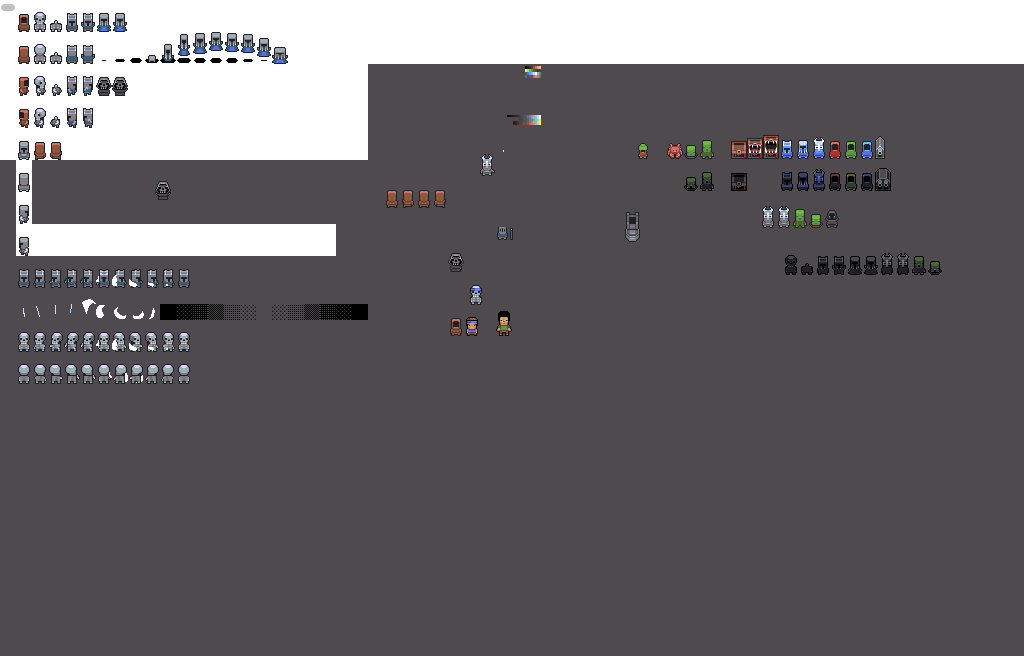
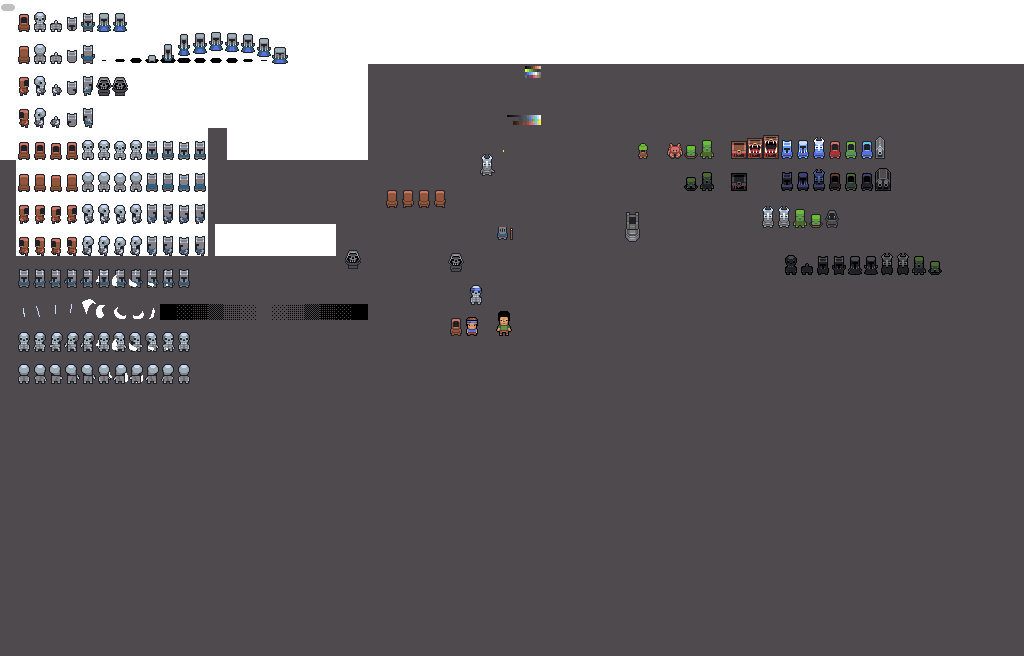
shell helmets

Changed region(s): [[0.0, 0.1829, 0.2188, 0.3963], [0.0625, 0.0305, 0.0938, 0.1829], [0.3438, 0.3659, 0.375, 0.3963]]

diff --git a/dist/bundle.js b/dist/bundle.js
@@ -390,7 +390,7 @@ var levelConstants_1 = __webpack_require__(5);
 var GameConstants = /** @class */ (function () {
     function GameConstants() {
     }
-    GameConstants.VERSION = "v0.3.1";
+    GameConstants.VERSION = "v0.3.2";
     GameConstants.FPS = 60;
     GameConstants.TILESIZE = 16;
     GameConstants.SCALE = 2;
@@ -2266,36 +2266,39 @@ var SkullEnemy = /** @class */ (function (_super) {
         };
         _this.draw = function () {
             if (!_this.dead) {
-                _this.tileX = 2;
+                _this.tileX = 5;
+                _this.tileY = 8;
                 if (_this.health === 1) {
                     _this.tileX = 3;
+                    _this.tileY = 0;
                     if (_this.ticksSinceFirstHit >= 3) {
                         _this.flashingFrame += 0.1;
                         if (Math.floor(_this.flashingFrame) % 2 === 0) {
                             _this.tileX = 2;
                         }
-                        else {
-                            _this.tileX = 3;
-                        }
                     }
                 }
+                _this.frame += 0.1;
+                if (_this.frame >= 4)
+                    _this.frame = 0;
                 _this.drawX += -0.5 * _this.drawX;
                 _this.drawY += -0.5 * _this.drawY;
                 if (_this.health === 2 && _this.doneMoving() && _this.game.player.doneMoving())
                     _this.facePlayer();
                 if (_this.hasShadow)
                     game_1.Game.drawMob(0, 0, 1, 1, _this.x - _this.drawX, _this.y - _this.drawY, 1, 1, _this.isShaded());
-                game_1.Game.drawMob(_this.tileX, _this.tileY + _this.direction * 2, 1, 2, _this.x - _this.drawX, _this.y - 1.5 - _this.drawY, 1, 2, _this.isShaded());
+                game_1.Game.drawMob(_this.tileX + (_this.tileX === 5 ? Math.floor(_this.frame) : 0), _this.tileY + _this.direction * 2, 1, 2, _this.x - _this.drawX, _this.y - 1.5 - _this.drawY, 1, 2, _this.isShaded());
             }
         };
         _this.dropLoot = function () {
             _this.game.level.items.push(new coin_1.Coin(_this.level, _this.x, _this.y));
         };
         _this.ticks = 0;
+        _this.frame = 0;
         _this.health = 2;
         _this.maxHealth = 2;
-        _this.tileX = 2;
-        _this.tileY = 0;
+        _this.tileX = 5;
+        _this.tileY = 8;
         _this.seenPlayer = true;
         _this.ticksSinceFirstHit = 0;
         _this.flashingFrame = 0;
@@ -2626,9 +2629,12 @@ var Player = /** @class */ (function () {
             }
         };
         this.drawPlayerSprite = function () {
-            game_1.Game.drawMob(1, _this.direction * 2, 1, 2, _this.x - _this.drawX, _this.y - 1.5 - _this.drawY, 1, 2);
+            _this.frame += 0.1;
+            if (_this.frame >= 4)
+                _this.frame = 0;
+            game_1.Game.drawMob(1 + Math.floor(_this.frame), 8 + _this.direction * 2, 1, 2, _this.x - _this.drawX, _this.y - 1.5 - _this.drawY, 1, 2);
             if (_this.inventory.getArmor() && _this.inventory.getArmor().health > 0) {
-                game_1.Game.drawMob(1, 8 + _this.direction * 2, 1, 2, _this.x - _this.drawX, _this.y - 1.5 - _this.drawY, 1, 2);
+                // TODO draw armor
             }
         };
         this.draw = function () {
@@ -2690,6 +2696,7 @@ var Player = /** @class */ (function () {
         this.y = y;
         this.w = 1;
         this.h = 1;
+        this.frame = 0;
         this.direction = PlayerDirection.UP;
         input_1.Input.iListener = this.iListener;
         input_1.Input.iUpListener = this.iUpListener;
@@ -3645,9 +3652,11 @@ var ShopScreen = /** @class */ (function () {
         s.item = new coal_1.Coal(this.game.level, 0, 0);
         s.description = s.item.getDescription();
         s.price = 1;
+        this.shopData.sellItems.push(s);
         s.item = new gold_1.Gold(this.game.level, 0, 0);
         s.description = s.item.getDescription();
         s.price = 10;
+        this.shopData.sellItems.push(s);
         s.item = new gem_1.Gem(this.game.level, 0, 0);
         s.description = s.item.getDescription();
         s.price = 100;
@@ -5138,10 +5147,12 @@ var KnightEnemy = /** @class */ (function (_super) {
                     return;
                 }
                 _this.ticks++;
-                _this.tileX = 5;
+                _this.tileX = 9;
+                _this.tileY = 8;
                 if (_this.seenPlayer || _this.level.softVisibilityArray[_this.x][_this.y] > 0) {
                     if (_this.ticks % 2 === 0) {
                         _this.tileX = 4;
+                        _this.tileY = 0;
                         // visible to player, chase them
                         // now that we've seen the player, we can keep chasing them even if we lose line of sight
                         _this.seenPlayer = true;
@@ -5200,11 +5211,14 @@ var KnightEnemy = /** @class */ (function (_super) {
             if (!_this.dead) {
                 _this.drawX += -0.5 * _this.drawX;
                 _this.drawY += -0.5 * _this.drawY;
+                _this.frame += 0.1;
+                if (_this.frame >= 4)
+                    _this.frame = 0;
                 if (_this.doneMoving() && _this.game.player.doneMoving())
                     _this.facePlayer();
                 if (_this.hasShadow)
                     game_1.Game.drawMob(0, 0, 1, 1, _this.x - _this.drawX, _this.y - _this.drawY, 1, 1, _this.isShaded());
-                game_1.Game.drawMob(_this.tileX, _this.tileY + _this.direction * 2, 1, 2, _this.x - _this.drawX, _this.y - 1.5 - _this.drawY, 1, 2, _this.isShaded());
+                game_1.Game.drawMob(_this.tileX + (_this.tileX === 4 ? 0 : Math.floor(_this.frame)), _this.tileY + _this.direction * 2, 1, 2, _this.x - _this.drawX, _this.y - 1.5 - _this.drawY + (_this.tileX === 4 ? 0.1875 : 0), 1, 2, _this.isShaded());
             }
         };
         _this.dropLoot = function () {
@@ -5212,10 +5226,11 @@ var KnightEnemy = /** @class */ (function (_super) {
         };
         _this.moves = new Array(); // empty move list
         _this.ticks = 0;
+        _this.frame = 0;
         _this.health = 2;
         _this.maxHealth = 2;
-        _this.tileX = 4;
-        _this.tileY = 0;
+        _this.tileX = 9;
+        _this.tileY = 8;
         _this.seenPlayer = true;
         _this.deathParticleColor = "#ffffff";
         return _this;
@@ -6682,7 +6697,7 @@ var EnemySpawnAnimation = /** @class */ (function (_super) {
             _this.enemy.skipNextTurns = 1;
             _this.level.enemies.push(_this.enemy);
             if (_this.level.game.player.x === _this.x && _this.level.game.player.y === _this.y) {
-                _this.level.game.player.hurt(1);
+                _this.level.game.player.hurt(0.5);
                 _this.level.game.player.move(_this.knockbackX, _this.knockbackY);
             }
             genericParticle_1.GenericParticle.spawnCluster(_this.level, _this.x + 0.5, _this.y + 0.5, "#ffffff");

diff --git a/src/enemy/knightEnemy.ts b/src/enemy/knightEnemy.ts
@@ -16,16 +16,18 @@ import { Coin } from "../item/coin";
 export class KnightEnemy extends Enemy {
   moves: Array<astar.AStarData>;
   ticks: number;
+  frame: number;
   seenPlayer: boolean;
 
   constructor(level: Level, game: Game, x: number, y: number) {
     super(level, game, x, y);
     this.moves = new Array<astar.AStarData>(); // empty move list
     this.ticks = 0;
+    this.frame = 0;
     this.health = 2;
     this.maxHealth = 2;
-    this.tileX = 4;
-    this.tileY = 0;
+    this.tileX = 9;
+    this.tileY = 8;
     this.seenPlayer = true;
     this.deathParticleColor = "#ffffff";
   }
@@ -41,10 +43,12 @@ export class KnightEnemy extends Enemy {
         return;
       }
       this.ticks++;
-      this.tileX = 5;
+      this.tileX = 9;
+      this.tileY = 8;
       if (this.seenPlayer || this.level.softVisibilityArray[this.x][this.y] > 0) {
         if (this.ticks % 2 === 0) {
           this.tileX = 4;
+          this.tileY = 0;
           // visible to player, chase them
 
           // now that we've seen the player, we can keep chasing them even if we lose line of sight
@@ -107,16 +111,19 @@ export class KnightEnemy extends Enemy {
     if (!this.dead) {
       this.drawX += -0.5 * this.drawX;
       this.drawY += -0.5 * this.drawY;
+
+      this.frame += 0.1;
+      if (this.frame >= 4) this.frame = 0;
       if (this.doneMoving() && this.game.player.doneMoving()) this.facePlayer();
       if (this.hasShadow)
         Game.drawMob(0, 0, 1, 1, this.x - this.drawX, this.y - this.drawY, 1, 1, this.isShaded());
       Game.drawMob(
-        this.tileX,
+        this.tileX + (this.tileX === 4 ? 0 : Math.floor(this.frame)),
         this.tileY + this.direction * 2,
         1,
         2,
         this.x - this.drawX,
-        this.y - 1.5 - this.drawY,
+        this.y - 1.5 - this.drawY + (this.tileX === 4 ? 0.1875 : 0),
         1,
         2,
         this.isShaded()

diff --git a/src/enemy/skullEnemy.ts b/src/enemy/skullEnemy.ts
@@ -16,6 +16,7 @@ import { GenericParticle } from "../particle/genericParticle";
 import { Coin } from "../item/coin";
 
 export class SkullEnemy extends Enemy {
+  frame: number;
   ticks: number;
   seenPlayer: boolean;
   ticksSinceFirstHit: number;
@@ -27,10 +28,11 @@ export class SkullEnemy extends Enemy {
   constructor(level: Level, game: Game, x: number, y: number) {
     super(level, game, x, y);
     this.ticks = 0;
+    this.frame = 0;
     this.health = 2;
     this.maxHealth = 2;
-    this.tileX = 2;
-    this.tileY = 0;
+    this.tileX = 5;
+    this.tileY = 8;
     this.seenPlayer = true;
     this.ticksSinceFirstHit = 0;
     this.flashingFrame = 0;
@@ -124,18 +126,21 @@ export class SkullEnemy extends Enemy {
 
   draw = () => {
     if (!this.dead) {
-      this.tileX = 2;
+      this.tileX = 5;
+      this.tileY = 8;
       if (this.health === 1) {
         this.tileX = 3;
+        this.tileY = 0;
         if (this.ticksSinceFirstHit >= 3) {
           this.flashingFrame += 0.1;
           if (Math.floor(this.flashingFrame) % 2 === 0) {
             this.tileX = 2;
-          } else {
-            this.tileX = 3;
           }
         }
       }
+
+      this.frame += 0.1;
+      if (this.frame >= 4) this.frame = 0;
 
       this.drawX += -0.5 * this.drawX;
       this.drawY += -0.5 * this.drawY;
@@ -144,7 +149,7 @@ export class SkullEnemy extends Enemy {
       if (this.hasShadow)
         Game.drawMob(0, 0, 1, 1, this.x - this.drawX, this.y - this.drawY, 1, 1, this.isShaded());
       Game.drawMob(
-        this.tileX,
+        this.tileX + (this.tileX === 5 ? Math.floor(this.frame) : 0),
         this.tileY + this.direction * 2,
         1,
         2,

diff --git a/src/player.ts b/src/player.ts
@@ -36,6 +36,7 @@ export class Player {
   h: number;
   drawX: number;
   drawY: number;
+  frame: number;
   direction: PlayerDirection;
   game: Game;
   flashing: boolean;
@@ -60,6 +61,8 @@ export class Player {
     this.y = y;
     this.w = 1;
     this.h = 1;
+
+    this.frame = 0;
 
     this.direction = PlayerDirection.UP;
 
@@ -383,18 +386,20 @@ export class Player {
   };
 
   drawPlayerSprite = () => {
-    Game.drawMob(1, this.direction * 2, 1, 2, this.x - this.drawX, this.y - 1.5 - this.drawY, 1, 2);
+    this.frame += 0.1;
+    if (this.frame >= 4) this.frame = 0;
+    Game.drawMob(
+      1 + Math.floor(this.frame),
+      8 + this.direction * 2,
+      1,
+      2,
+      this.x - this.drawX,
+      this.y - 1.5 - this.drawY,
+      1,
+      2
+    );
     if (this.inventory.getArmor() && this.inventory.getArmor().health > 0) {
-      Game.drawMob(
-        1,
-        8 + this.direction * 2,
-        1,
-        2,
-        this.x - this.drawX,
-        this.y - 1.5 - this.drawY,
-        1,
-        2
-      );
+      // TODO draw armor
     }
   };
 

diff --git a/src/projectile/enemySpawnAnimation.ts b/src/projectile/enemySpawnAnimation.ts
@@ -51,7 +51,7 @@ export class EnemySpawnAnimation extends Projectile {
     this.enemy.skipNextTurns = 1;
     this.level.enemies.push(this.enemy);
     if (this.level.game.player.x === this.x && this.level.game.player.y === this.y) {
-      this.level.game.player.hurt(1);
+      this.level.game.player.hurt(0.5);
       this.level.game.player.move(this.knockbackX, this.knockbackY);
     }
     GenericParticle.spawnCluster(this.level, this.x + 0.5, this.y + 0.5, "#ffffff");

diff --git a/src/shopScreen.ts b/src/shopScreen.ts
@@ -65,9 +65,11 @@ export class ShopScreen {
     s.item = new Coal(this.game.level, 0, 0);
     s.description = s.item.getDescription();
     s.price = 1;
+    this.shopData.sellItems.push(s);
     s.item = new Gold(this.game.level, 0, 0);
     s.description = s.item.getDescription();
     s.price = 10;
+    this.shopData.sellItems.push(s);
     s.item = new Gem(this.game.level, 0, 0);
     s.description = s.item.getDescription();
     s.price = 100;

diff --git a/src/gameConstants.ts b/src/gameConstants.ts
@@ -1,7 +1,7 @@
 import { LevelConstants } from "./levelConstants";
 
 export class GameConstants {
-  static readonly VERSION = "v0.3.1";
+  static readonly VERSION = "v0.3.2";
 
   static readonly FPS = 60;
 
